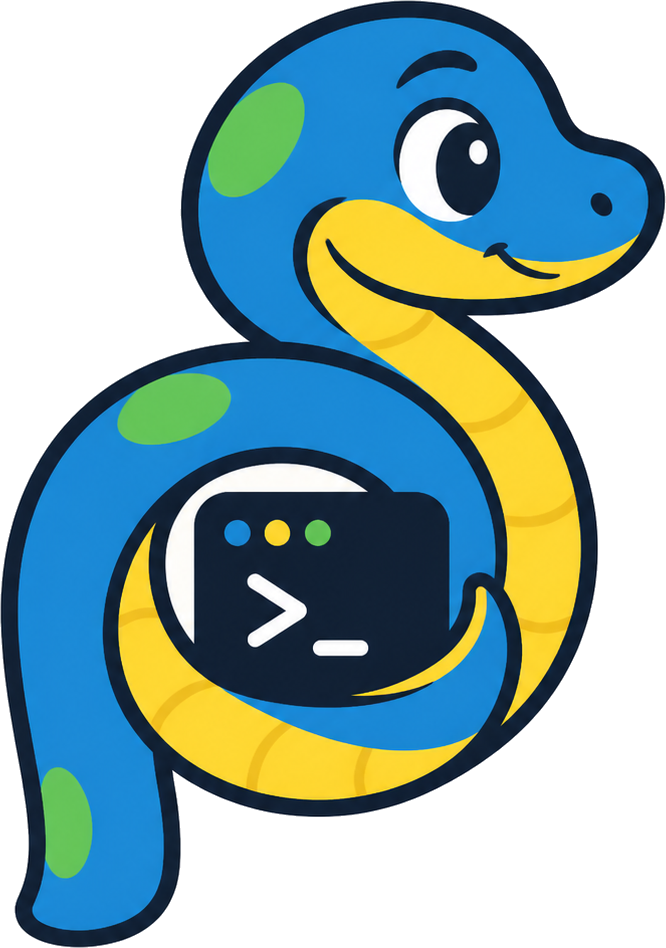
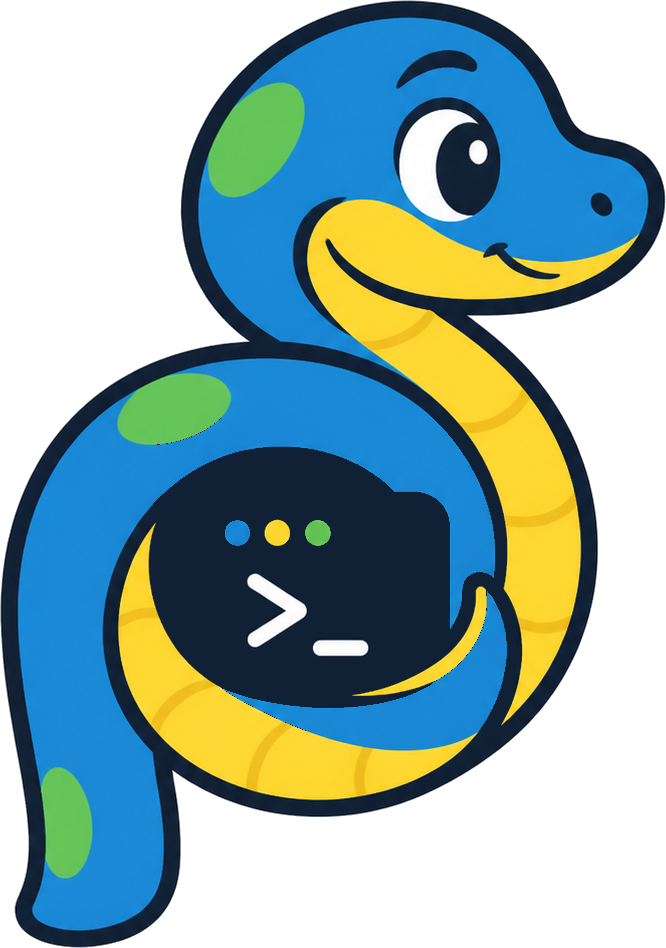
Refresh Pythonlings branding

Changed region(s): [[0.2402, 0.4895, 0.5405, 0.673]]

diff --git a/docs/assets/branding/pythonlings-hero-source.html b/docs/assets/branding/pythonlings-hero-source.html
@@ -1,0 +1,55 @@
+<!-- docs/assets/branding/pythonlings-hero-source.html -->
+<!-- Source for pythonlings-hero.png. Regenerate from this directory with:
+     google-chrome --headless=new --hide-scrollbars --force-device-scale-factor=2 \
+       --window-size=1280,640 --virtual-time-budget=8000 \
+       --screenshot=pythonlings-hero.png "file://$PWD/pythonlings-hero-source.html" -->
+<!doctype html>
+<html>
+<head>
+<meta charset="utf-8">
+<link rel="stylesheet" href="https://fonts.googleapis.com/css2?family=JetBrains+Mono:wght@400;700;800&display=swap">
+<style>
+  html, body { margin: 0; padding: 0; }
+  body {
+    width: 1280px; height: 640px; overflow: hidden;
+    background: #0B1117;
+    font-family: 'JetBrains Mono', monospace;
+  }
+  .wrap {
+    box-sizing: border-box;
+    width: 1280px; height: 640px;
+    position: relative;
+    display: flex; flex-direction: row; align-items: center; justify-content: center;
+  }
+  .col { display: flex; flex-direction: column; gap: 26px; }
+  .shell { display: flex; flex-direction: column; gap: 14px; font-size: 22px; }
+  .shell .prompt { color: #4ADE80; }
+  .shell .dim { color: #9AA7B4; }
+  .shell .cmd { color: #E2E8F0; }
+  .status { display: flex; gap: 28px; }
+  .status .pass { color: #4ADE80; }
+  .status .cur { color: #FFD43B; }
+  .status .count { color: #46566A; }
+  .wordmark { font-size: 88px; font-weight: 800; line-height: 1.1; letter-spacing: -0.03em; }
+  .wordmark .py { color: #5EA3D9; }
+  .wordmark .lings { color: #FFD43B; }
+  .wordmark .cursor { display: inline-block; width: 34px; height: 72px; background: #4ADE80; margin-left: 14px; }
+  .tagline { font-size: 24px; color: #8A97A5; }
+  .mascot { height: 340px; width: auto; position: absolute; right: 36px; top: 50%; transform: translateY(-50%); opacity: 0.95; }
+</style>
+</head>
+<body>
+<div class="wrap">
+  <div class="col">
+    <div class="shell">
+      <div><span class="prompt">$</span> <span class="dim">pip install pythonlings</span></div>
+      <div><span class="prompt">$</span> <span class="cmd">pythonlings</span></div>
+      <div class="status"><span class="pass">&#10003; variables1</span><span class="pass">&#10003; variables2</span><span class="cur">&#9679; variables3</span><span class="count">2/292</span></div>
+    </div>
+    <div class="wordmark"><span class="py">python</span><span class="lings">lings</span><span class="cursor"></span></div>
+    <div class="tagline">Learn Python by fixing tiny broken programs.</div>
+  </div>
+  <img class="mascot" src="pythonlings-mascot.png" alt="">
+</div>
+</body>
+</html>
